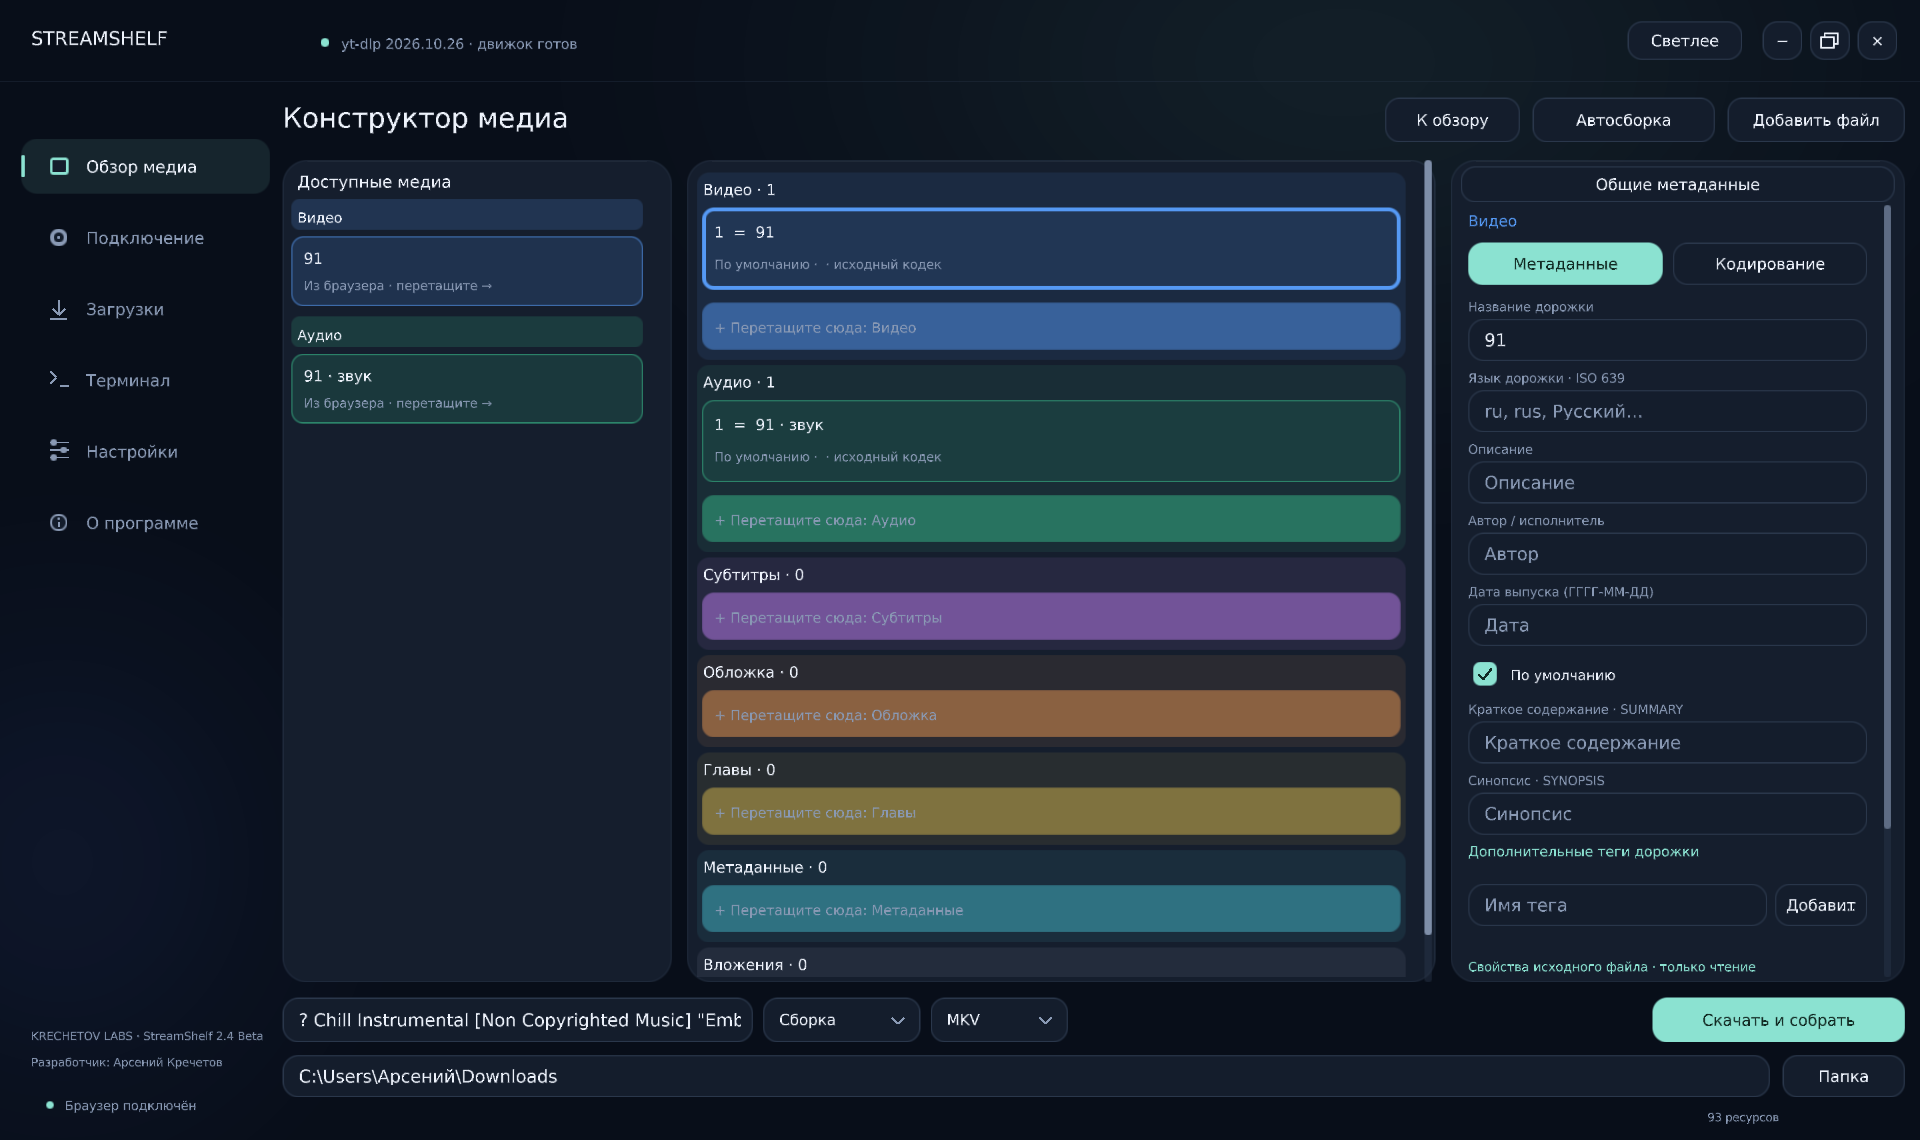
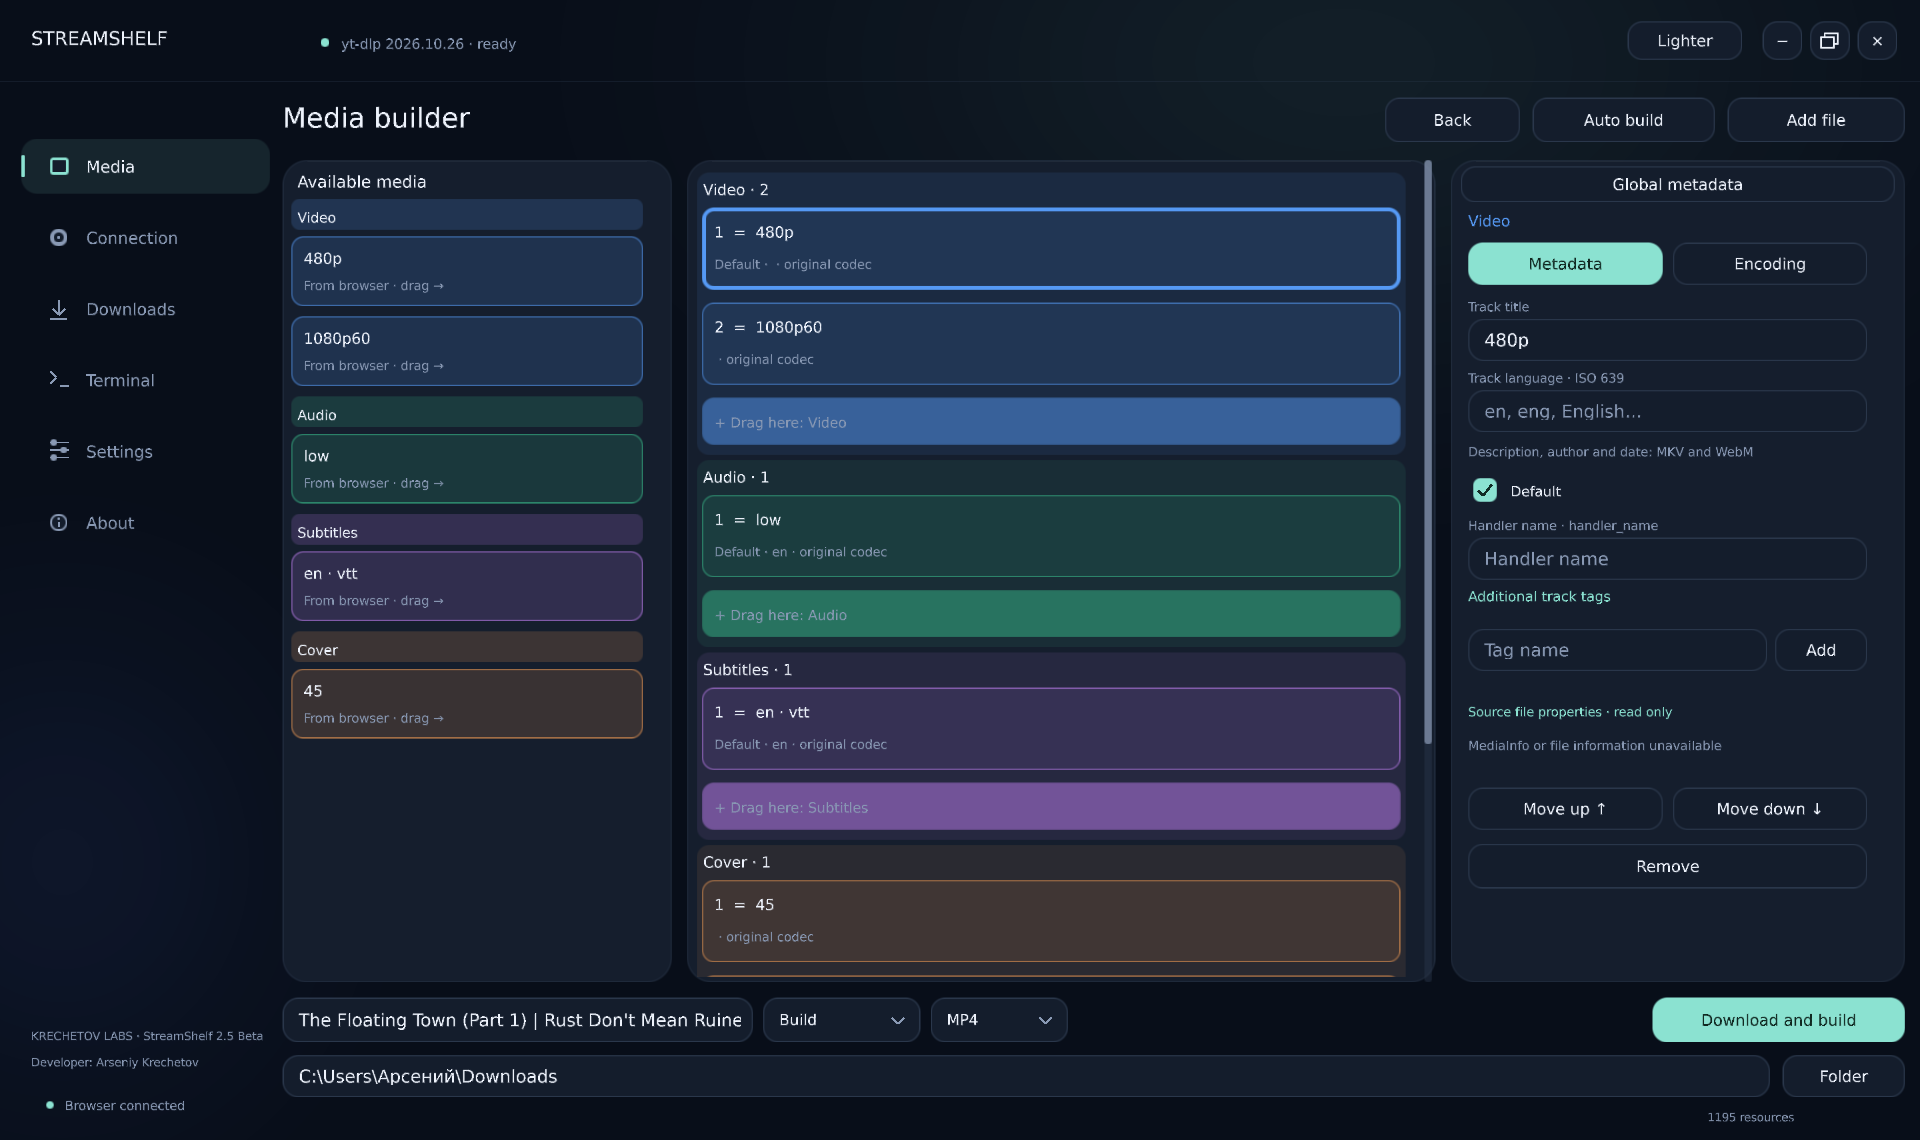
Update StreamShelf screenshots

diff --git a/README.md b/README.md
@@ -48,7 +48,7 @@ Not every file, tag, codec, or container combination is supported. One cover, on
 
 ## Screenshots
 
-These screenshots show the Russian interface; the current interface and labels may differ.
+StreamShelf 2.5 Beta in English, including the browser connector.
 
 ### Media overview
 
@@ -61,6 +61,18 @@ These screenshots show the Russian interface; the current interface and labels m
 ### Downloads
 
 ![StreamShelf downloads](docs/screenshots/downloads.png)
+
+### Language and component settings
+
+![StreamShelf language and component settings](docs/screenshots/settings.png)
+
+### Browser connection
+
+![StreamShelf browser connection settings](docs/screenshots/connection.png)
+
+### StreamShelf Connector
+
+![StreamShelf Connector in the browser](docs/screenshots/browser-extension.png)
 
 ## Privacy and limitations
 
